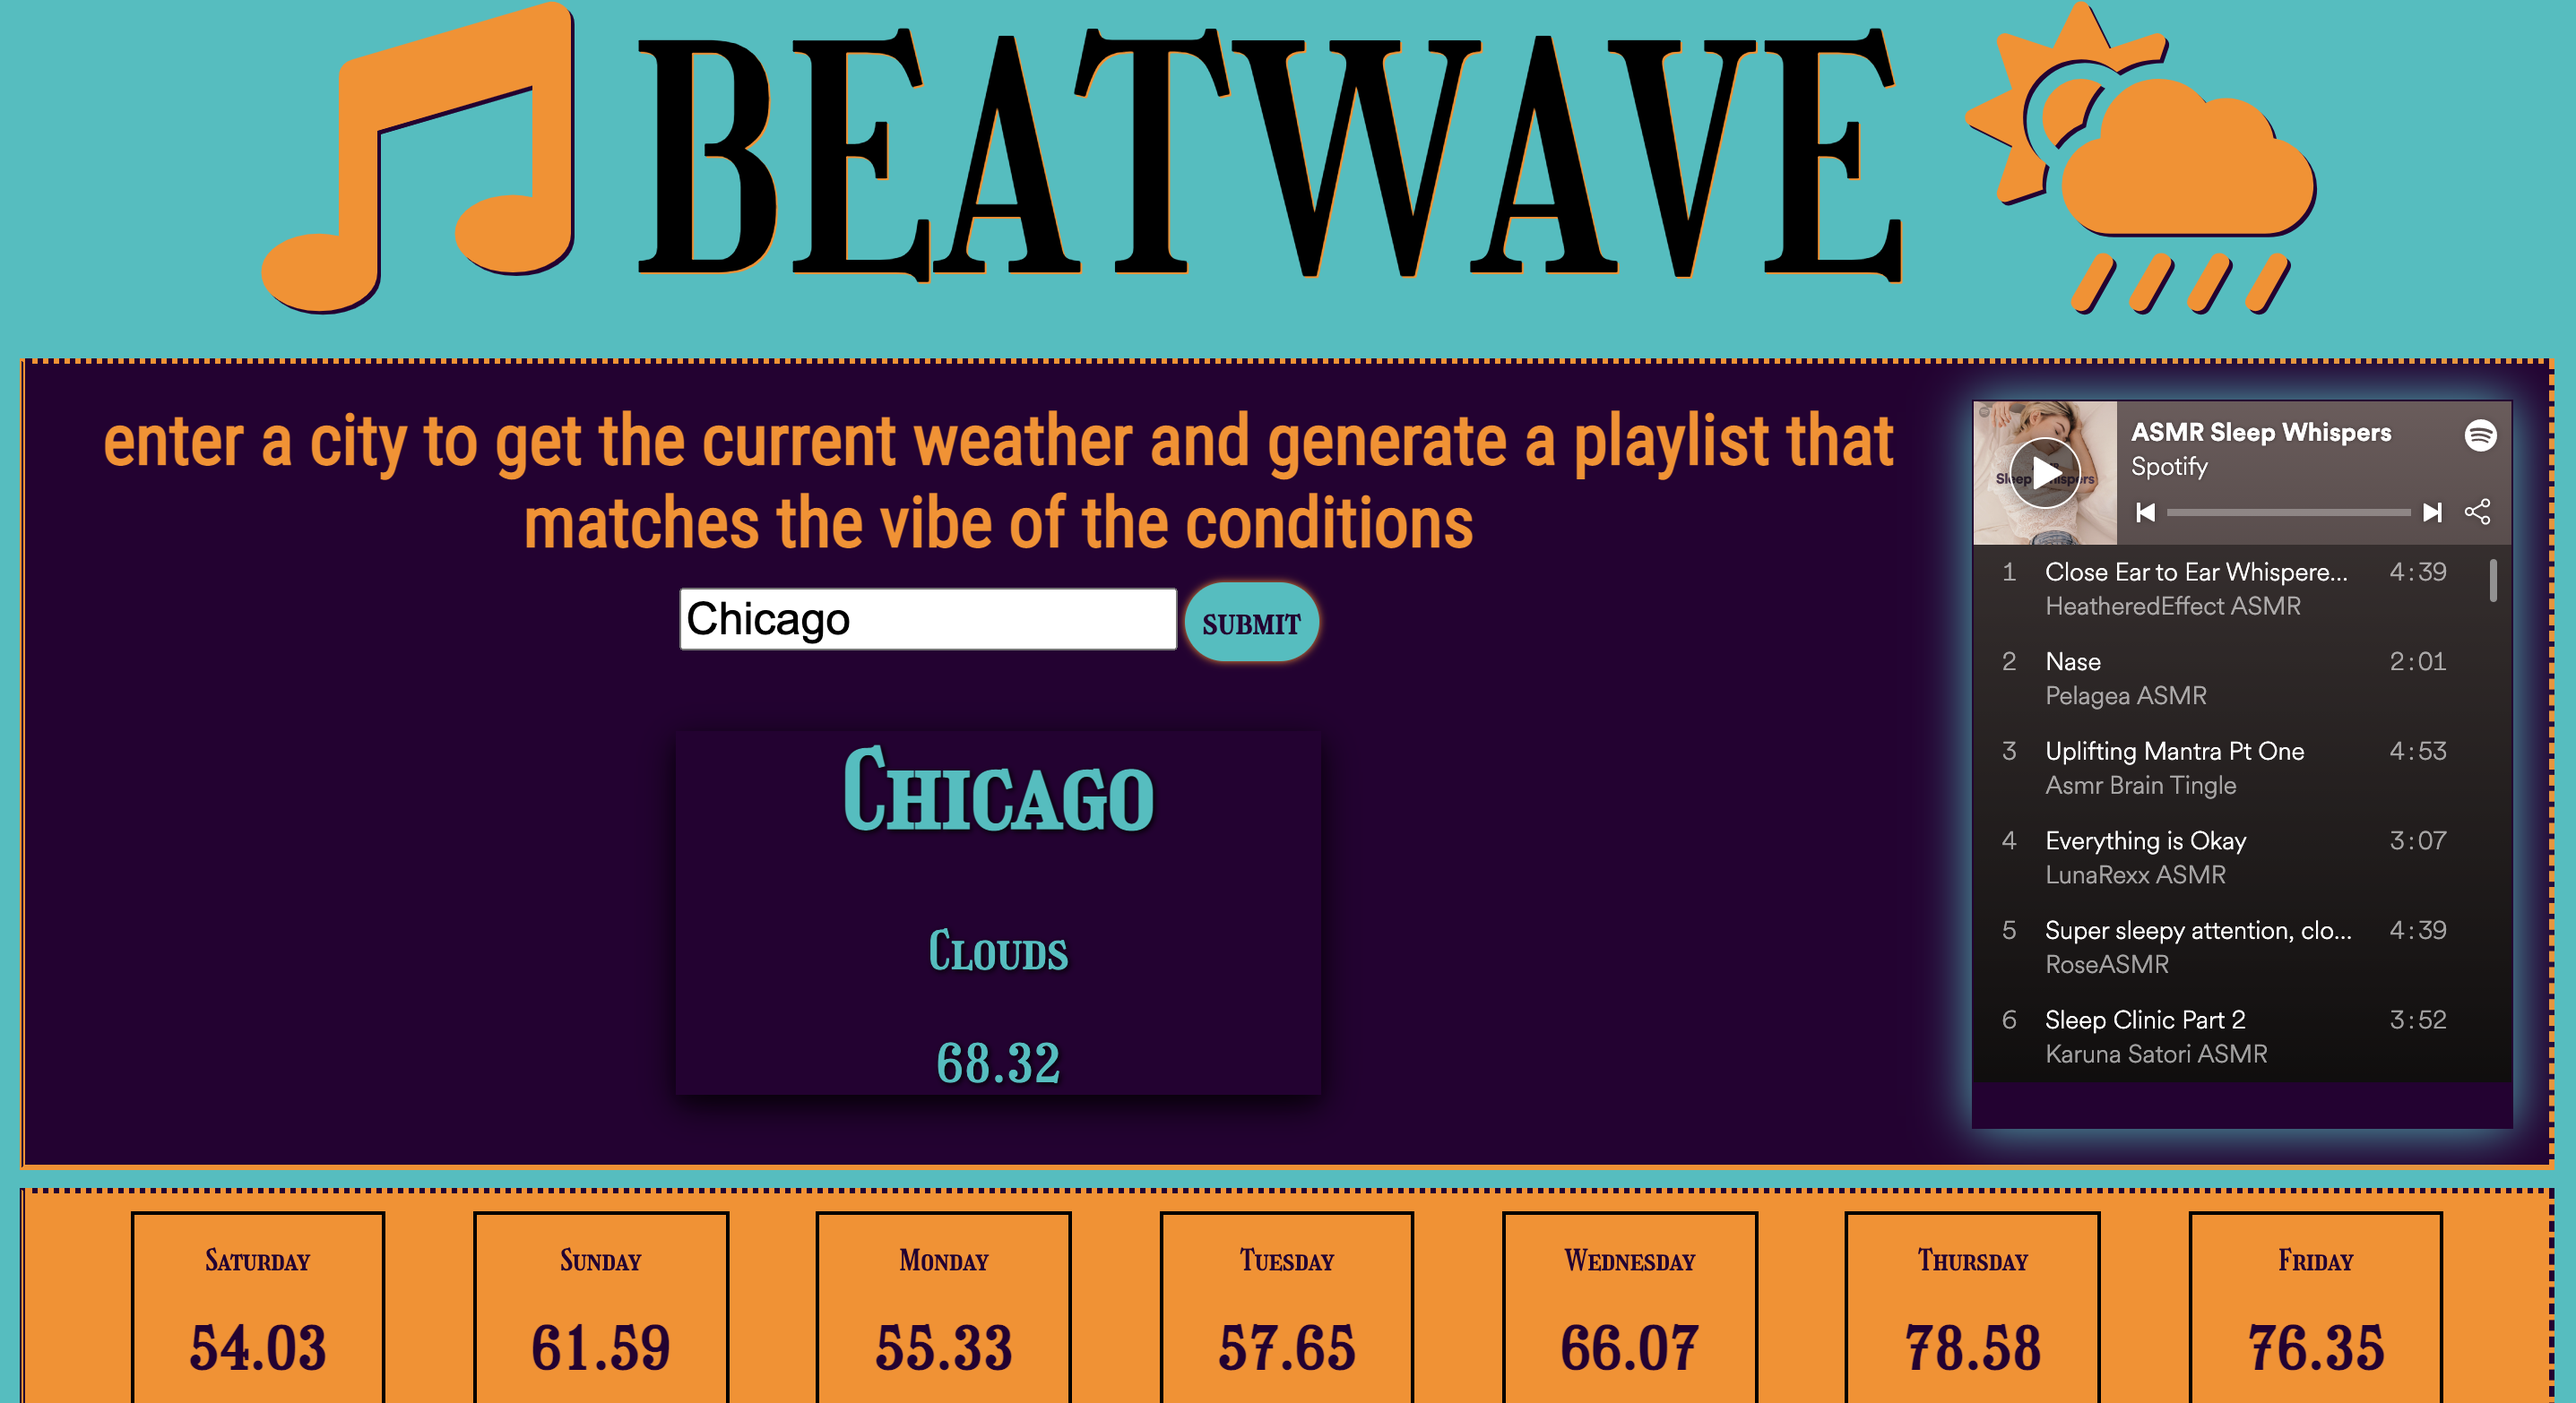
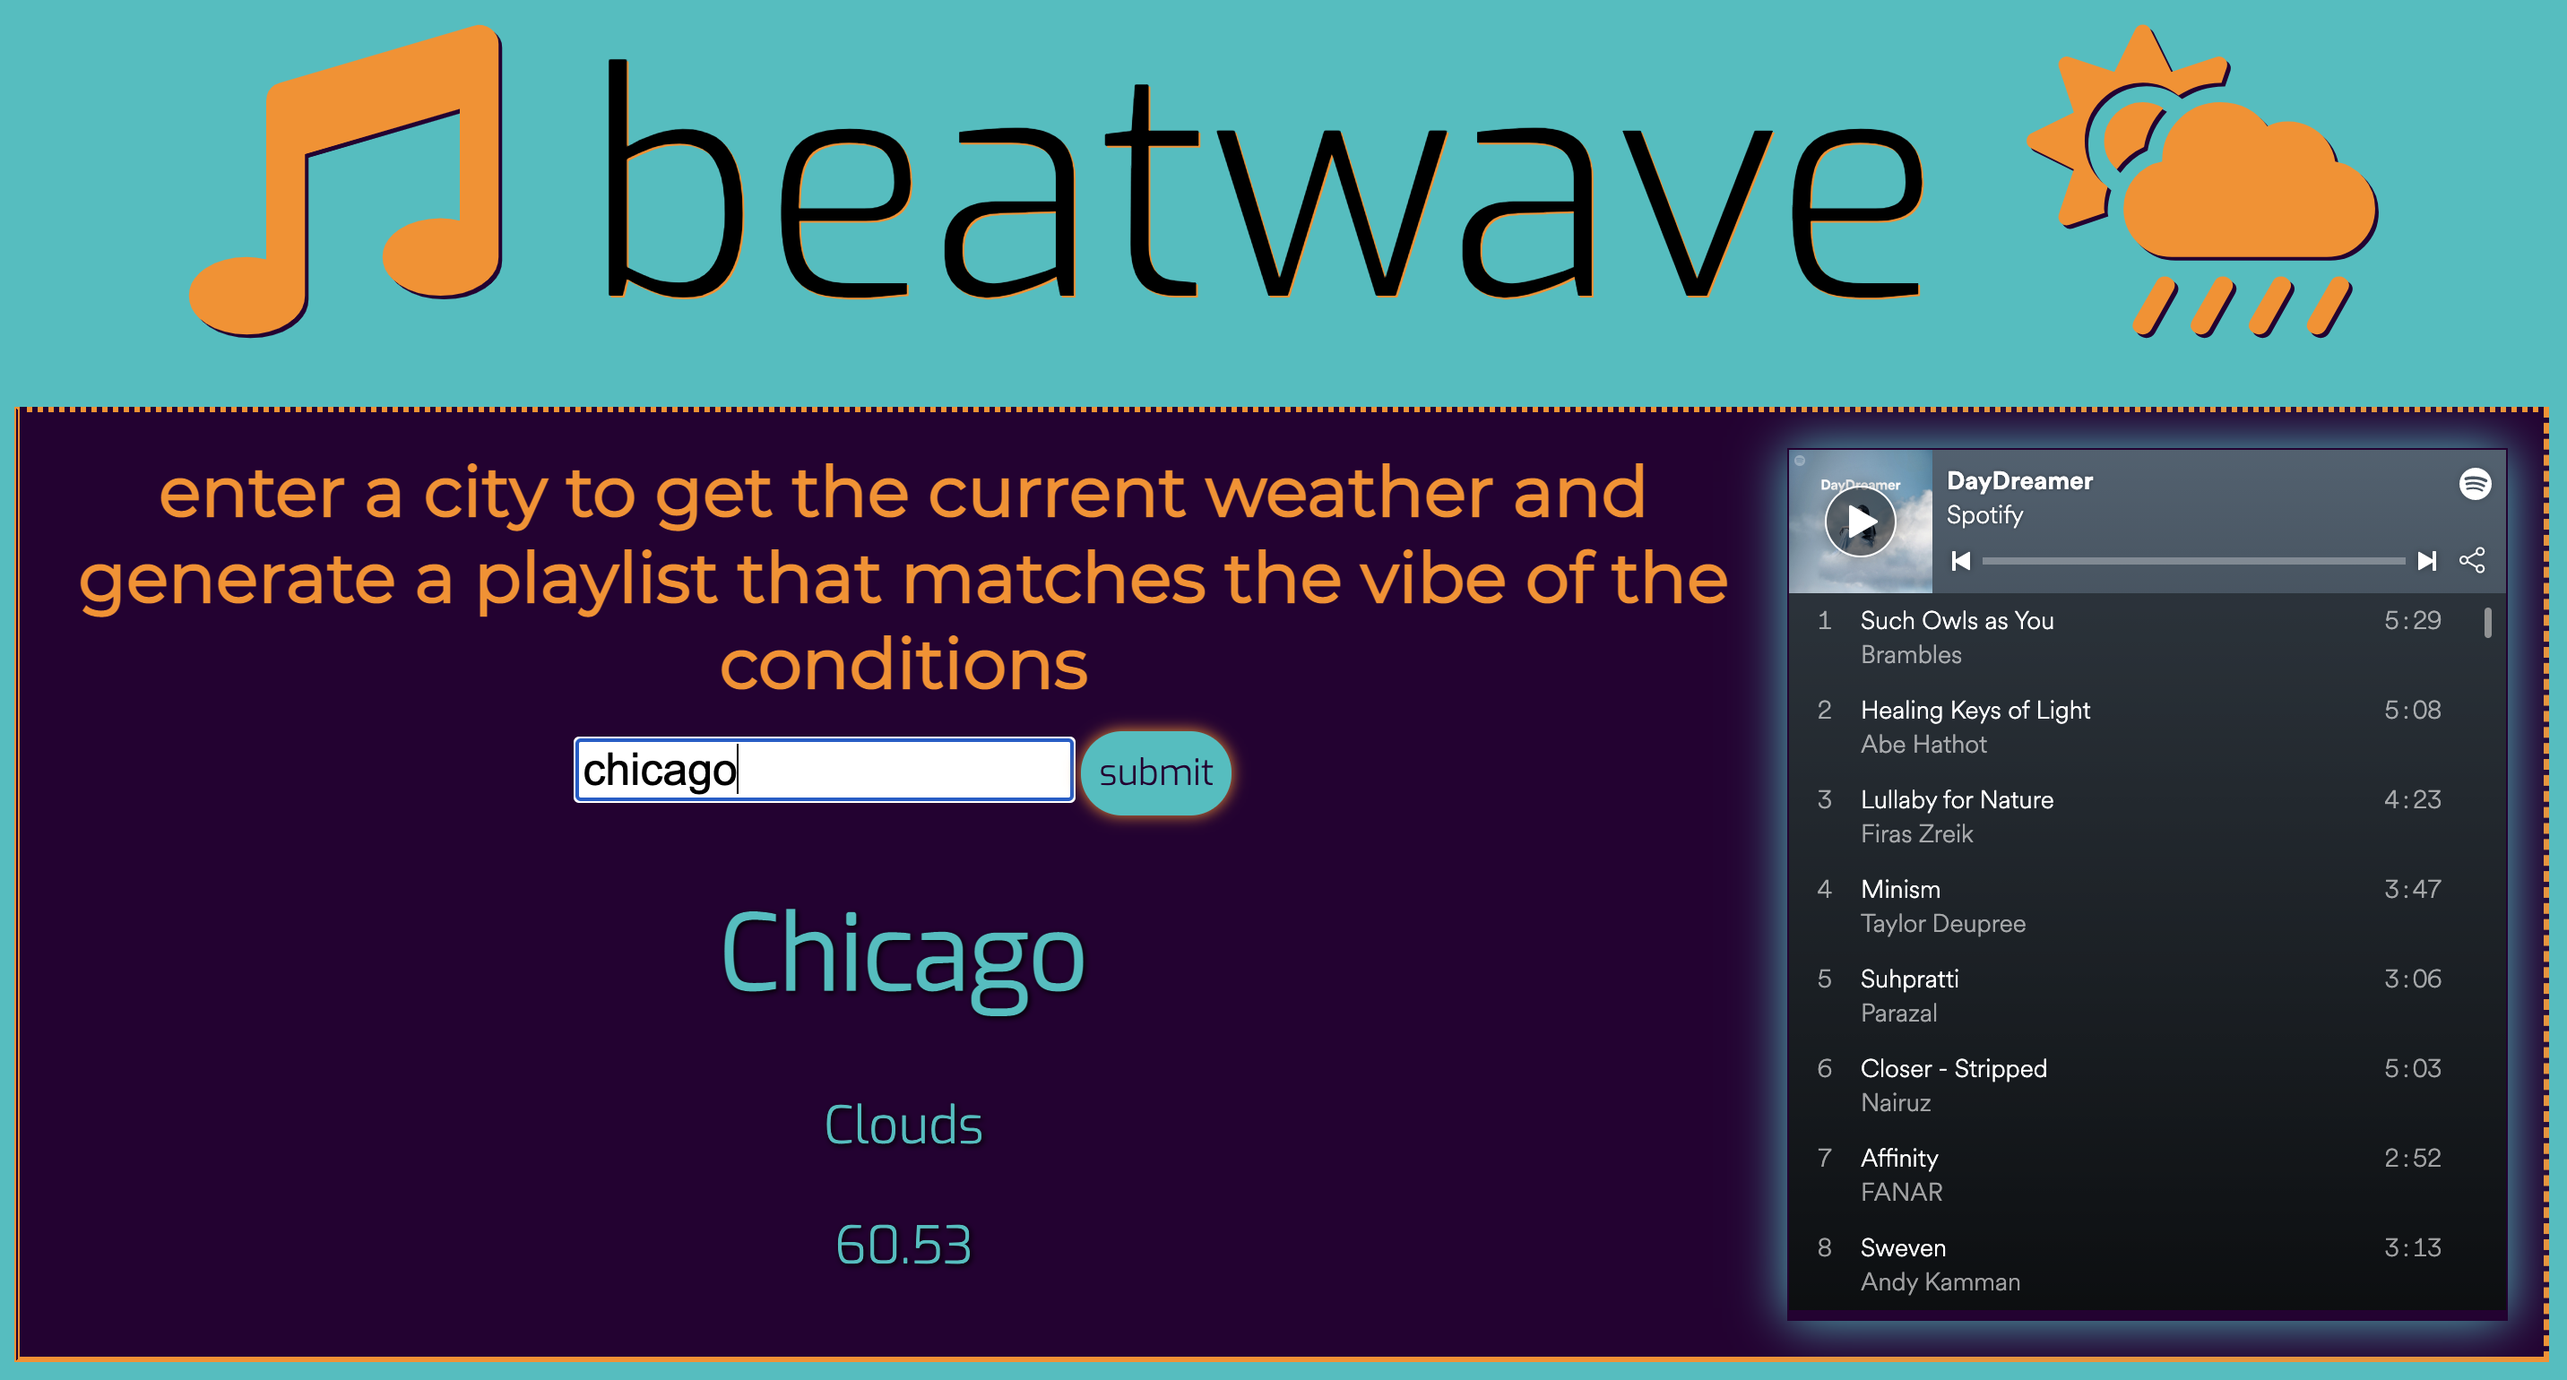
updated readme screenshot

diff --git a/index.html b/index.html
@@ -24,8 +24,8 @@
     <div class="container-1 mix">
         <div class="container-2">
             <span class="text">
-                <strong>enter a city to get the current weather and generate a playlist that matches the vibe of the
-                    conditions</strong>
+                <strong>enter a city to get the forecast and generate a playlist that matches the vibe of the current
+                    weather conditions</strong>
             </span>
             <!--input data goes here *city name*-->
             <div class="input">
